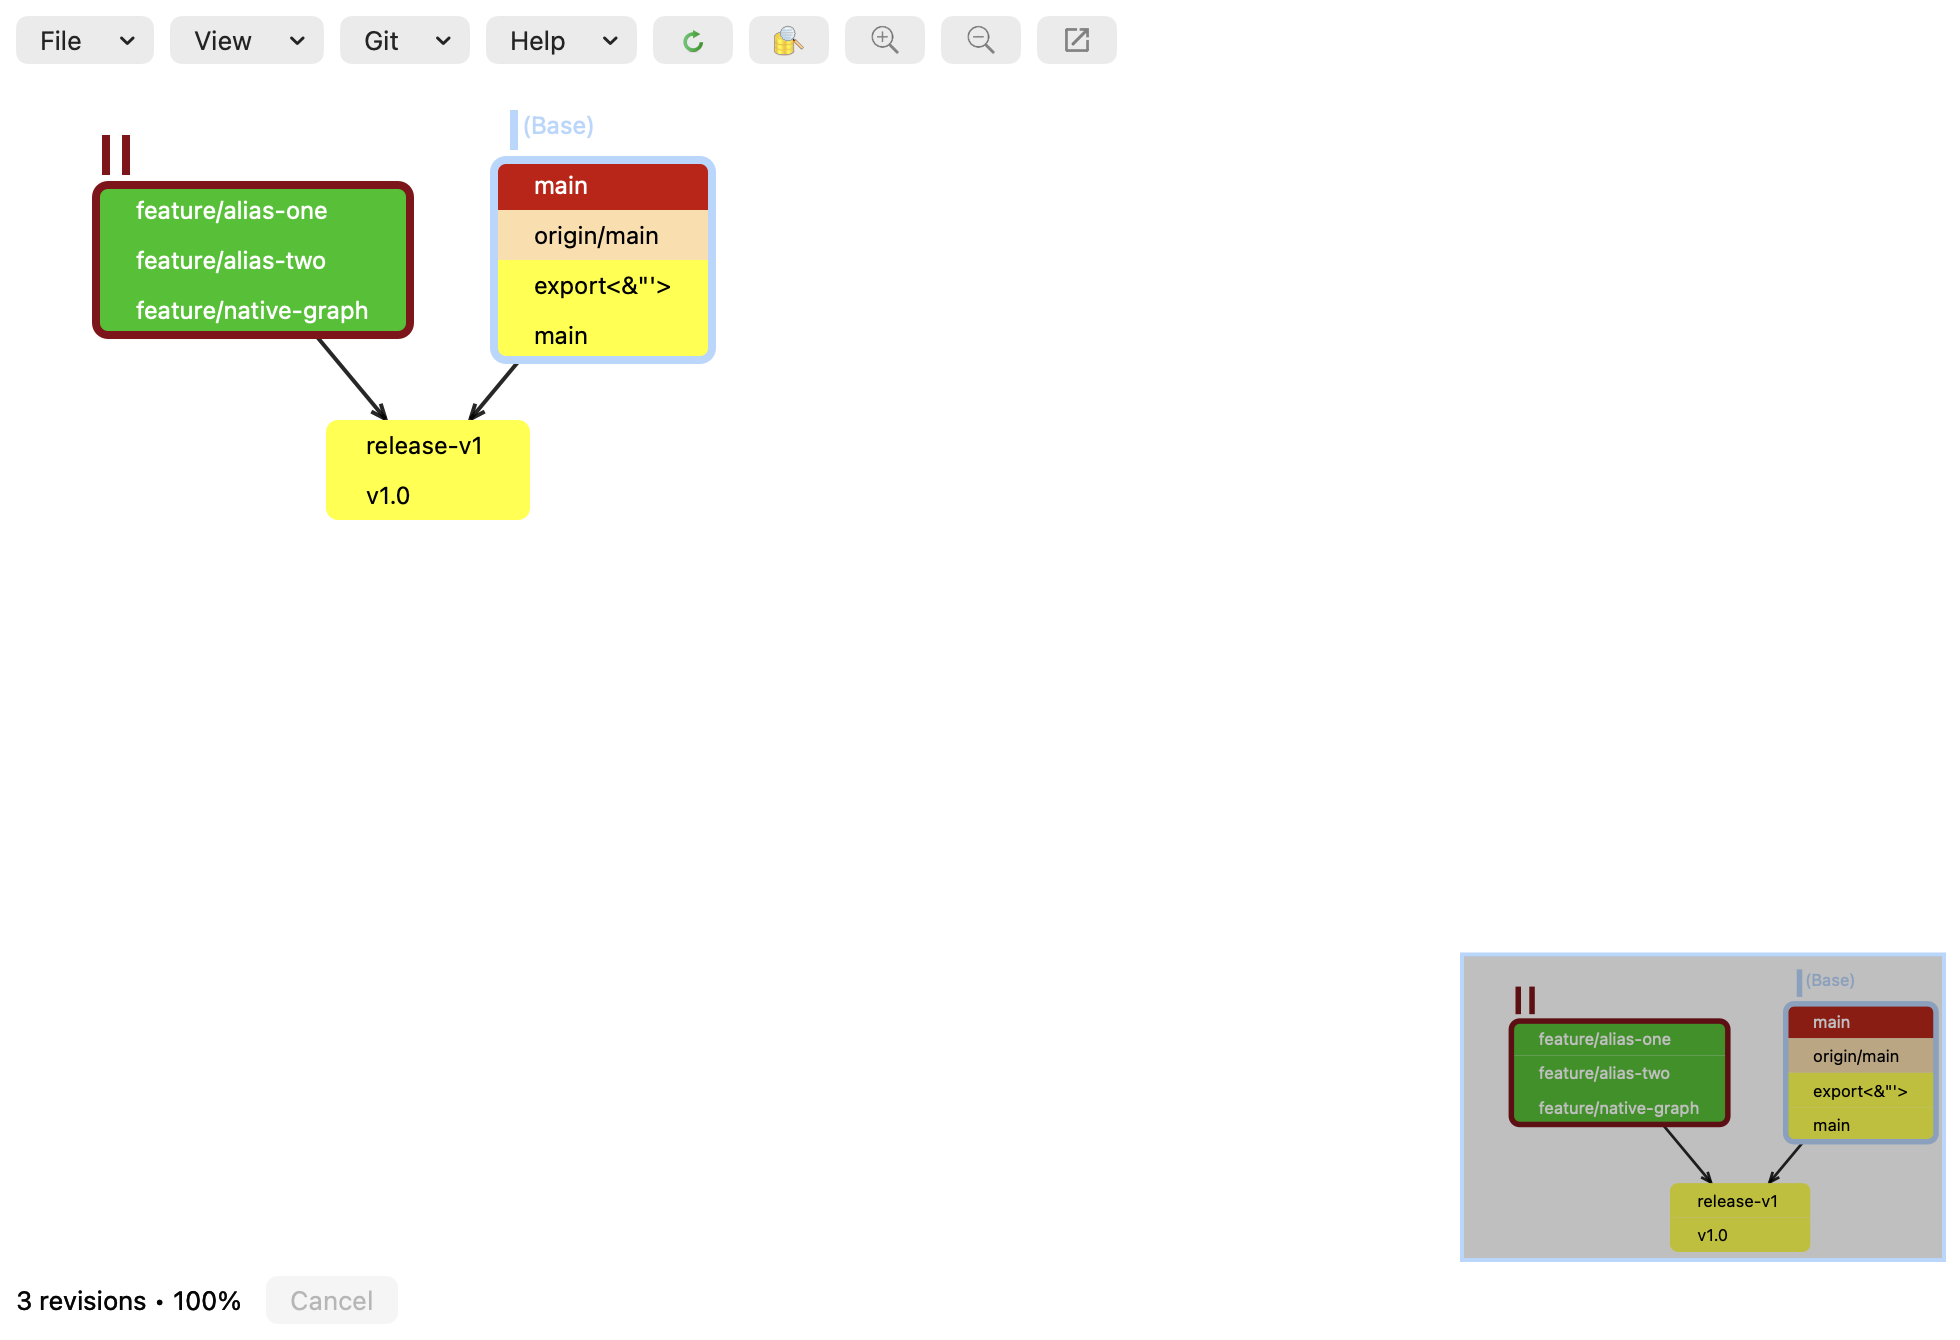
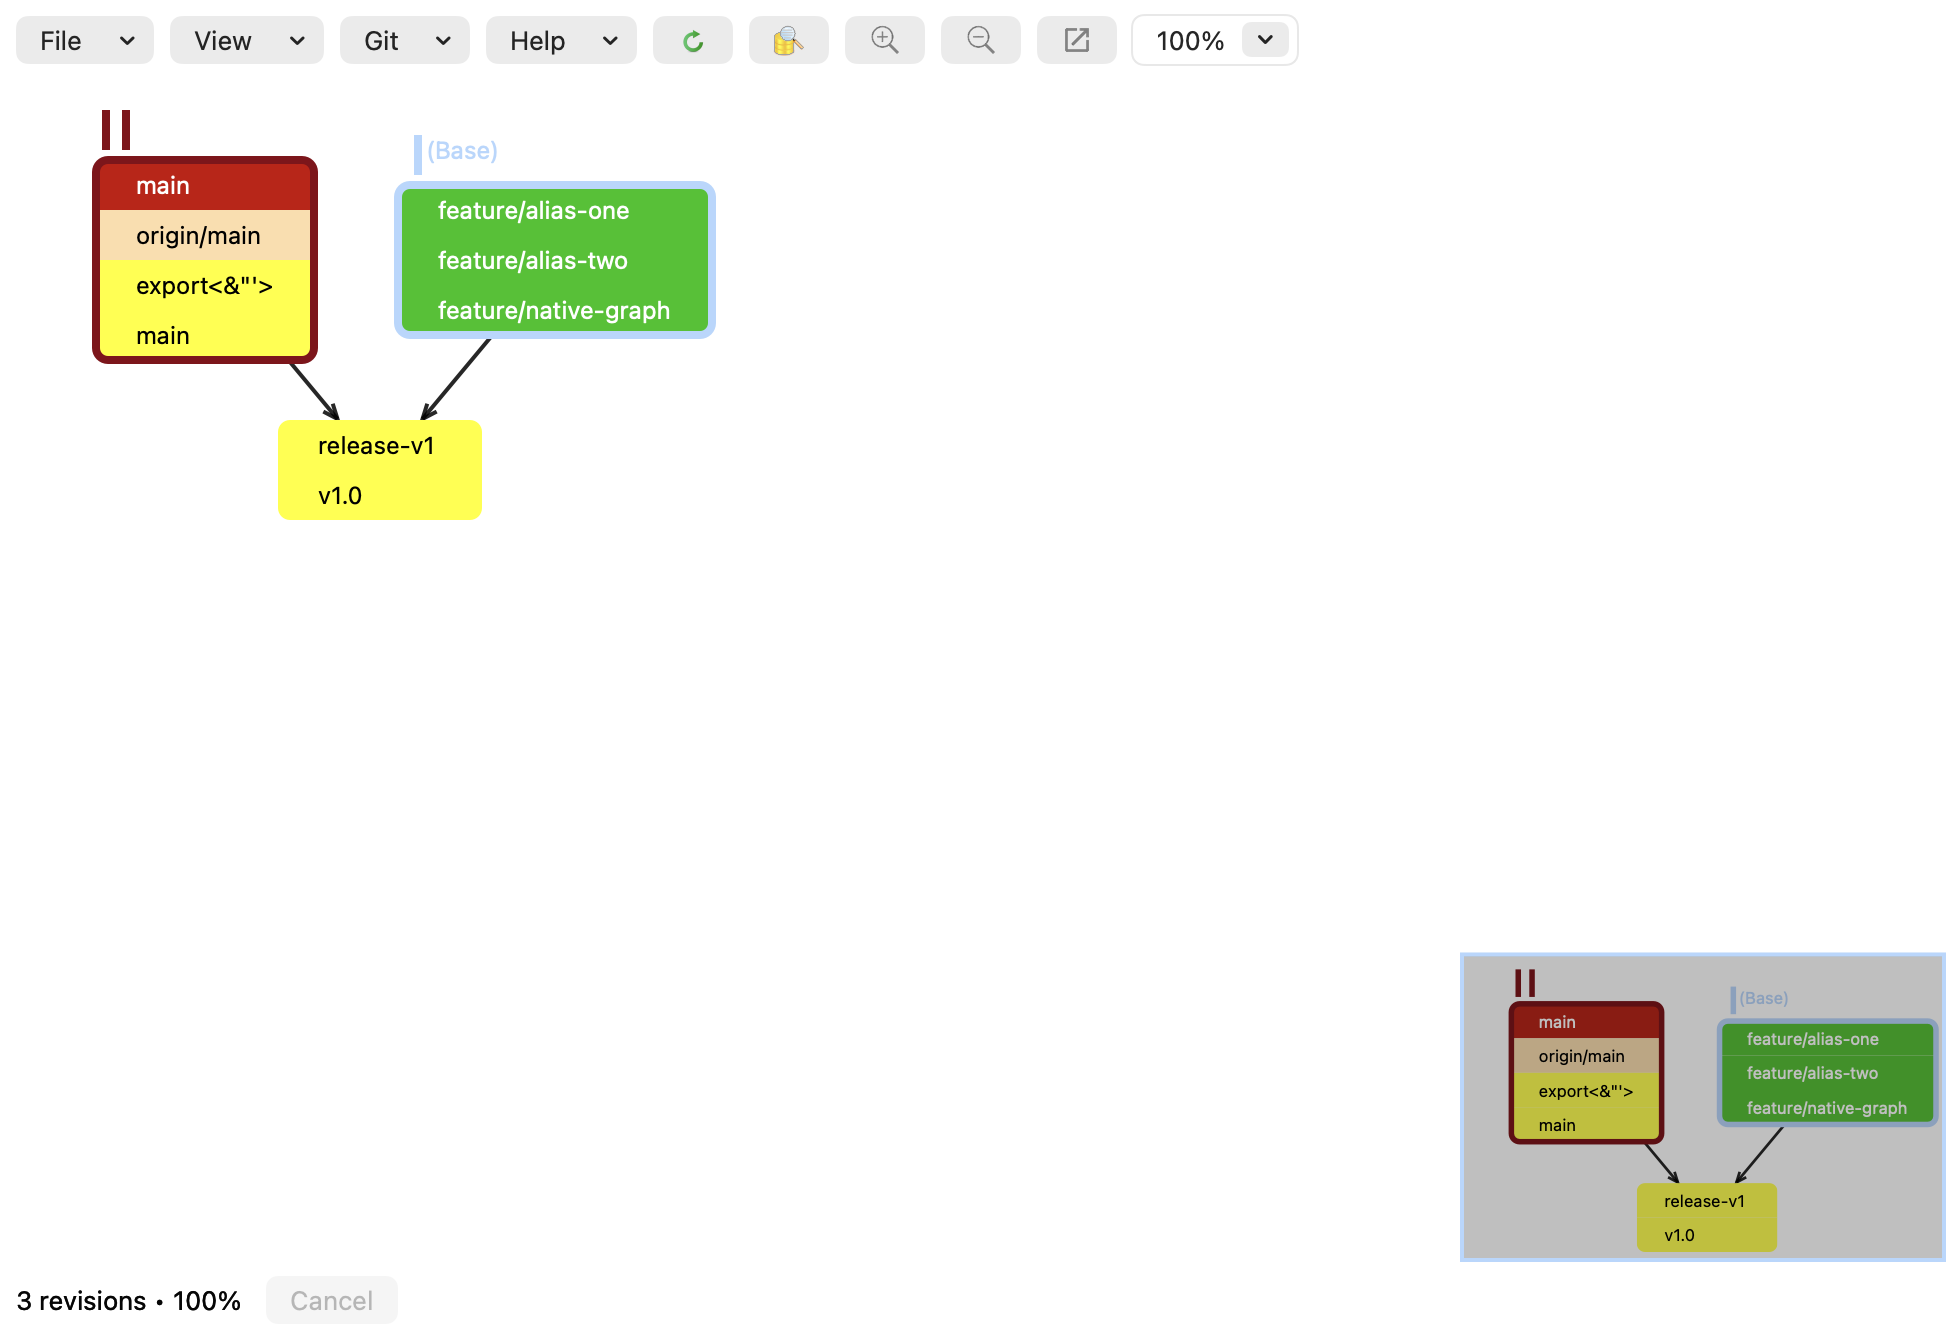
Port editable Revision Graph zoom percentages and refresh native captures

Changed region(s): [[0.0311, 0.0918, 0.3735, 0.3978], [0.7469, 0.7343, 0.9959, 0.9485], [0.5913, 0.0, 0.6224, 0.0306]]

diff --git a/Sources/TurtleGitMac/RevisionGraphWindow.swift b/Sources/TurtleGitMac/RevisionGraphWindow.swift
@@ -240,11 +240,13 @@ enum RevisionGraphReferenceCommand {
     case switchBranch(String, hash: String), checkout(String, hash: String), delete([String], hash: String)
 }
 
-@MainActor final class RevisionGraphWindowController: NSWindowController, NSWindowDelegate, NSMenuItemValidation {
+@MainActor final class RevisionGraphWindowController: NSWindowController, NSWindowDelegate, NSMenuItemValidation, NSComboBoxDelegate {
     let model: RevisionGraphWindowModel
     let canvas: RevisionGraphCanvas
     let scroll = NSScrollView()
     let status = NSTextField(labelWithString: "")
+    let zoomBox = NSComboBox()
+    private var displayedZoom: CGFloat?
     let cancelButton = NSButton(title: "Cancel", target: nil, action: nil)
     private let overview: RevisionGraphOverview
     private(set) var filter: RevisionGraphFilterController?
@@ -272,6 +274,12 @@ enum RevisionGraphReferenceCommand {
             let button = NSButton(image: icon.image() ?? NSImage(), target: self, action: #selector(clicked(_:)))
             button.identifier = NSUserInterfaceItemIdentifier(command); button.toolTip = title; button.setAccessibilityLabel(title); bar.addArrangedSubview(button)
         }
+        // Upstream inserts each preset at index zero, producing descending order.
+        zoomBox.addItems(withObjectValues: ["200%", "100%", "75%", "50%", "40%", "20%", "10%", "5%"])
+        zoomBox.isEditable = true; zoomBox.completes = false; zoomBox.alignment = .right
+        zoomBox.delegate = self; zoomBox.target = self; zoomBox.action = #selector(commitZoom(_:))
+        zoomBox.setAccessibilityLabel("Zoom percentage"); zoomBox.toolTip = "Zoom percentage"
+        zoomBox.widthAnchor.constraint(equalToConstant: 82).isActive = true; bar.addArrangedSubview(zoomBox)
         let host = NSView(frame: CGRect(x: 0, y: 0, width: 960, height: 560)); host.translatesAutoresizingMaskIntoConstraints = false
         scroll.hasHorizontalScroller = true; scroll.hasVerticalScroller = true; scroll.autohidesScrollers = true; scroll.documentView = canvas
         scroll.frame = CGRect(x: 0, y: 0, width: 960, height: 560); scroll.autoresizingMask = [.width, .height]; host.addSubview(scroll)
@@ -376,6 +384,31 @@ enum RevisionGraphReferenceCommand {
         }
     }
     @objc private func clicked(_ sender: NSButton) { if let command = sender.identifier?.rawValue { perform(command) } }
+    @objc private func commitZoom(_ sender: Any?) {
+        guard !model.busy, !model.closed, filter == nil, !exporting, window?.attachedSheet == nil else { synchronizeZoom(force: true); return }
+        let scanner = Scanner(string: zoomBox.stringValue); scanner.locale = Locale(identifier: "en_US_POSIX")
+        guard let percent = scanner.scanDouble() else { synchronizeZoom(force: true); return }
+        _ = scanner.scanString("%")
+        let zoom = CGFloat(percent / 100)
+        let size = model.geometry?.size ?? CGSize(width: 1, height: 1)
+        // Unlike the fixed zoom buttons, upstream accepts custom scales above
+        // 200%. Reject values that cannot form finite native view geometry.
+        guard scanner.isAtEnd, percent.isFinite, percent > 0, percent <= Double(Int32.max), zoom > 0, (1 / zoom).isFinite,
+              size.width * zoom + 20 <= CGFloat(Int32.max), size.height * zoom + 20 <= CGFloat(Int32.max) else { synchronizeZoom(force: true); return }
+        model.zoom = zoom; model.changed()
+    }
+    func comboBoxSelectionDidChange(_ notification: Notification) {
+        guard notification.object as? NSComboBox === zoomBox, zoomBox.indexOfSelectedItem >= 0 else { return }
+        zoomBox.stringValue = zoomBox.itemObjectValue(at: zoomBox.indexOfSelectedItem) as? String ?? zoomBox.stringValue
+        commitZoom(zoomBox)
+    }
+    func controlTextDidEndEditing(_ notification: Notification) {
+        if notification.object as? NSComboBox === zoomBox { commitZoom(zoomBox) }
+    }
+    private func synchronizeZoom(force: Bool = false) {
+        guard force || displayedZoom != model.zoom else { return }
+        displayedZoom = model.zoom; zoomBox.stringValue = String(format: "%.0f%%", model.zoom * 100)
+    }
     @objc private func cancelGraphOperation() { model.cancel() }
     @objc private func scrolled() { overview.needsDisplay = true }
     func windowDidResize(_ notification: Notification) { update() }
@@ -429,6 +462,8 @@ enum RevisionGraphReferenceCommand {
         update()
     }
     func update() {
+        synchronizeZoom()
+        zoomBox.isEnabled = !model.busy && !model.closed && filter == nil && !exporting && window?.attachedSheet == nil
         canvas.resize(to: scroll.contentSize); canvas.needsDisplay = true; overview.updateFrame(); overview.needsDisplay = true
         overview.isHidden = !model.showOverview || model.busy || model.nodes.isEmpty || model.nodes.count > 10_000
         status.stringValue = model.error ?? (model.busy ? "Loading…" : "\(model.nodes.count) revisions • \(Int((model.zoom * 100).rounded()))%")
@@ -445,6 +480,7 @@ enum RevisionGraphReferenceCommand {
             self.update()
         }
         self.filter = filter; if let child = filter.window { child.alphaValue = window.alphaValue; window.beginSheet(child) }
+        update()
     }
     private func saveGraph() {
         guard let window, window.attachedSheet == nil, model.geometry != nil else { return }

diff --git a/docs/site/index.html b/docs/site/index.html
@@ -120,7 +120,7 @@
     <h2>Merge text conflicts</h2>
     <p>The native TurtleGitMerge editor now presents Theirs and Mine above an editable Merged result, with line numbers, colored differences, block choices and guarded Save/Mark as resolved. It remains a partial port; see the <a href="@@REPOSITORY_URL@@/blob/main/docs/TEXT-MERGE-PARITY.md">text merge parity audit</a> for verified behavior and remaining work.</p>
     <figure><a href="assets/text-merge-formats.png"><img src="assets/text-merge-formats.png" alt="Native TurtleGitMerge with UTF-32BE Theirs, UTF-8 BOM Mine, UTF-16LE BOM Base and editable result encoding and CRLF controls in each pane footer." width="2240" height="1624" loading="lazy"></a><figcaption>Actual native window with distinct Unicode source formats and pane format indicators. The result footer provides encoding and line-ending menus alongside tab settings. LF conversion and Undo, encoding changes and checkmarks were exercised. Full TortoiseMerge parity remains in progress.</figcaption></figure>
-    <figure><a href="assets/revision-graph-light.png"><img src="assets/revision-graph-light.png" alt="Native Revision Graph with colored reference boxes" width="1960" height="1340" loading="lazy"></a><figcaption>Solid branch/tag colors, source label padding, I/II selection markers and the adaptive lower-right overview. These are native content-view captures from a disposable repository. SVG/Graphviz and raster exports are now implemented; reference-specific node menus, per-reference deletion and overview navigation now pass private native checks. Physical save-panel, alternative-tool and signed acceptance remain pending. <a href="@@REPOSITORY_URL@@/blob/main/docs/REVISION-GRAPH.md">Revision Graph guide</a> · <a href="assets/revision-graph-export.svg">Sample SVG export</a> · <a href="assets/revision-graph-export.gv">Sample Graphviz export</a> · <a href="@@REPOSITORY_URL@@/blob/main/docs/REVISION-GRAPH-PARITY.md">Source mapping and remaining work</a>.</figcaption></figure>
+    <figure><a href="assets/revision-graph-light.png"><img src="assets/revision-graph-light.png" alt="Native Revision Graph with colored reference boxes" width="1960" height="1340" loading="lazy"></a><figcaption>Solid branch/tag colors, source label padding, I/II selection markers and the adaptive lower-right overview and editable zoom percentage. These are native content-view captures from a disposable repository. SVG/Graphviz and raster exports are now implemented; reference-specific node menus, per-reference deletion and overview navigation now pass private native checks. Physical save-panel, alternative-tool and signed acceptance remain pending. <a href="@@REPOSITORY_URL@@/blob/main/docs/REVISION-GRAPH.md">Revision Graph guide</a> · <a href="assets/revision-graph-export.svg">Sample SVG export</a> · <a href="assets/revision-graph-export.gv">Sample Graphviz export</a> · <a href="@@REPOSITORY_URL@@/blob/main/docs/REVISION-GRAPH-PARITY.md">Source mapping and remaining work</a>.</figcaption></figure>
     <figure><a href="assets/revision-graph-dark.png"><img src="assets/revision-graph-dark.png" alt="Native Revision Graph in dark appearance" width="1960" height="1340" loading="lazy"></a><figcaption>Dark appearance keeps distinct branch and tag colors with graph-specific text contrast. Native interaction checks passed with system and bundled Git; physical gestures and signed acceptance remain pending. <a href="@@REPOSITORY_URL@@/blob/main/docs/REVISION-GRAPH.md">Revision Graph guide</a> · <a href="assets/revision-graph-export.svg">Sample SVG export</a> · <a href="assets/revision-graph-export.gv">Sample Graphviz export</a> · <a href="@@REPOSITORY_URL@@/blob/main/docs/REVISION-GRAPH-PARITY.md">Source mapping and remaining work</a>.</figcaption></figure>
     <figure><a href="assets/revision-graph-filter-light.png"><img src="assets/revision-graph-filter-light.png" alt="Native Revision Graph Filter with From and To fields" width="1020" height="380" loading="lazy"></a><figcaption>Source From/To layout, reference browsers, mutually exclusive branch scopes and immediate Reset. Scope enablement, Cancel, Reset and owned-sheet parent-close checks passed. <a href="@@REPOSITORY_URL@@/blob/main/docs/REVISION-GRAPH.md">Revision Graph guide</a> · <a href="assets/revision-graph-export.svg">Sample SVG export</a> · <a href="assets/revision-graph-export.gv">Sample Graphviz export</a> · <a href="@@REPOSITORY_URL@@/blob/main/docs/REVISION-GRAPH-PARITY.md">Source mapping and remaining work</a>.</figcaption></figure>
     <figure><a href="assets/revision-graph-filter-dark.png"><img src="assets/revision-graph-filter-dark.png" alt="Native Revision Graph Filter in dark appearance" width="1020" height="380" loading="lazy"></a><figcaption>Native dark fields and controls. Complete reference-browser handoff, keyboard and accessibility acceptance remain pending. <a href="@@REPOSITORY_URL@@/blob/main/docs/REVISION-GRAPH.md">Revision Graph guide</a> · <a href="assets/revision-graph-export.svg">Sample SVG export</a> · <a href="assets/revision-graph-export.gv">Sample Graphviz export</a> · <a href="@@REPOSITORY_URL@@/blob/main/docs/REVISION-GRAPH-PARITY.md">Source mapping and remaining work</a>.</figcaption></figure>

diff --git a/docs/qa/revision-graph-window-native-2026-10-10.swift b/docs/qa/revision-graph-window-native-2026-10-10.swift
@@ -187,6 +187,34 @@ import Darwin
         try require(controller.nodeMenu().items.map(\.title) == ["Show Log", "Compare revisions", "Unified diff"])
         controller.perform("zoomOut"); try require(abs(model.zoom - 0.9) < 0.0001)
         controller.perform("zoom100"); controller.perform("overview"); try require(model.zoom == 1 && model.showOverview)
+        let zoomBox = controller.zoomBox
+        try require(zoomBox.objectValues as? [String] == ["200%", "100%", "75%", "50%", "40%", "20%", "10%", "5%"] && zoomBox.stringValue == "100%" && zoomBox.isEnabled)
+        func zoomText(_ value: String) throws {
+            window.makeFirstResponder(nil); zoomBox.stringValue = value
+            try require(NSApp.sendAction(zoomBox.action!, to: zoomBox.target, from: zoomBox))
+        }
+        try zoomText("125%"); try require(abs(model.zoom - 1.25) < 0.0001 && zoomBox.stringValue == "125%")
+        try zoomText("12.5"); try require(abs(model.zoom - 0.125) < 0.0001)
+        try zoomText("250%"); try require(abs(model.zoom - 2.5) < 0.0001 && zoomBox.stringValue == "250%")
+        for invalid in ["", "0%", "-25%", "nonsense", "25% junk", "NaN", "1e300%", "1e-320%"] {
+            try zoomText(invalid); try require(model.zoom == 2.5 && zoomBox.stringValue == "250%")
+        }
+        zoomBox.selectItem(at: 2)
+        NotificationCenter.default.post(name: NSComboBox.selectionDidChangeNotification, object: zoomBox)
+        try require(model.zoom == 0.75 && zoomBox.stringValue == "75%")
+        controller.perform("zoomOut"); try require(abs(model.zoom - 0.675) < 0.0001 && zoomBox.stringValue == String(format: "%.0f%%", model.zoom * 100))
+        controller.perform("zoom100")
+        window.makeFirstResponder(zoomBox)
+        let editor = zoomBox.currentEditor() as! NSTextView
+        editor.selectAll(nil); editor.insertText("150%", replacementRange: editor.selectedRange())
+        let zoomReturn = NSEvent.keyEvent(with: .keyDown, location: .zero, modifierFlags: [], timestamp: 0, windowNumber: window.windowNumber, context: nil, characters: "\r", charactersIgnoringModifiers: "\r", isARepeat: false, keyCode: 36)!
+        window.sendEvent(zoomReturn)
+        try await wait { abs(model.zoom - 1.5) < 0.0001 }
+        window.makeFirstResponder(nil); controller.perform("zoom100")
+        model.load(); try require(!zoomBox.isEnabled)
+        try zoomText("75%"); try require(model.zoom == 1 && zoomBox.stringValue == "100%")
+        try await wait { !model.busy }; try require(zoomBox.isEnabled)
+        print("PASS: Revision Graph editable zoom presets, custom percentages, native Return, synchronized display and invalid/busy guards")
         let overview = views(window.contentView!).compactMap { $0 as? RevisionGraphOverview }.first!
         let tall = RevisionGraphOverview.layout(graph: CGSize(width: 4000, height: 8000), viewport: CGSize(width: 960, height: 560))
         try require(abs(tall.size.width - 104) < 0.01 && abs(tall.size.height - 200) < 0.01 && abs(tall.scale - 0.024) < 0.0001)
@@ -240,7 +268,8 @@ import Darwin
         }
         try await capture(window, prefix: "revision-graph")
         controller.showFilter(); try await wait { window.attachedSheet != nil }
-        let child = window.attachedSheet!; try require(child.alphaValue == 0)
+        let child = window.attachedSheet!; try require(child.alphaValue == 0 && !zoomBox.isEnabled)
+        try zoomText("75%"); try require(model.zoom == 1 && zoomBox.stringValue == "100%")
         try await capture(child, prefix: "revision-graph-filter")
         controller.requestRepositoryRefresh(); try require(!model.busy)
         let buttons = views(child.contentView!).compactMap { $0 as? NSButton }

diff --git a/docs/REVISION-GRAPH-PARITY.md b/docs/REVISION-GRAPH-PARITY.md
@@ -374,3 +374,31 @@ Debug/Store builds and both packaging audits passed; see
 [Filter-picker evidence](qa/revision-graph-filter-picker-2026-10-10.json).
 The graph receiver uses actual private nested sheets; the shared-browser
 receiver uses injected presentation. Neither proves signed or physical acceptance.
+
+
+## Editable zoom control
+
+The native toolbar now includes an editable percentage combo box adapting
+`OnChangeZoom`/`UpdateZoomBox`. It offers the eight source percentages, in the
+descending order produced by upstream's repeated insertion at index zero.
+Preset selection, Return and native editing completion apply a percentage;
+buttons, wheel and fit changes synchronize the display with source-style
+integer percentage formatting. A layout/redraw with unchanged zoom does not
+replace an in-progress text draft.
+
+Custom positive scales are not capped at the 200% button limit. Native input
+validation rejects malformed, zero/negative, non-finite and unrepresentable
+geometry values, restoring the last valid display rather than forwarding
+source `_wtof` zero/overflow values to AppKit. Busy, closed, Filter/export and
+owned-sheet guards reject edits. The combo box is disabled during loading and owned modal interactions.
+Native QA exercises preset notification dispatch, typed action dispatch,
+Return through the actual field editor, custom fractional and above-200% scales,
+invalid values and loading/Filter locks. Exact toolbar artwork and other
+source toolbar buttons, physical popup/Tab/localized-decimal behavior, signed
+and accessibility acceptance remain pending.
+
+The native graph receiver passed with each Git engine, including actual Return
+input and modal/loading guards. Unsigned Debug/Store builds, both packaging
+audits and local Pages build passed. Refreshed light/dark captures were inspected;
+see [zoom-control evidence](qa/revision-graph-zoom-2026-10-10.json). Earlier
+screenshot records remain scoped to their original commits.

diff --git a/docs/REVISION-GRAPH.md b/docs/REVISION-GRAPH.md
@@ -38,7 +38,11 @@ nodes are selected. See the parity record for remaining physical and signed
 interaction checks.
 
 Use the toolbar or **View** menu to zoom, return to 100%, fit width or height,
-or fit the whole graph. Command/Control-wheel also zooms. Drag blank space to
+or fit the whole graph. The toolbar percentage box offers 5%, 10%, 20%, 40%,
+50%, 75%, 100% and 200%. Choose a preset or type a positive percentage and
+press Return; custom percentages may exceed 200%. Invalid values restore the
+current percentage. Button, wheel and fit changes update the box.
+Command/Control-wheel also zooms. Drag blank space to
 pan the canvas. **Show Overview** displays a miniature graph in the lower right;
 its size follows the graph and viewport, and the shaded rectangle shows the
 visible area. Click or drag within it to navigate. The overview is suppressed above 10,000 displayed
